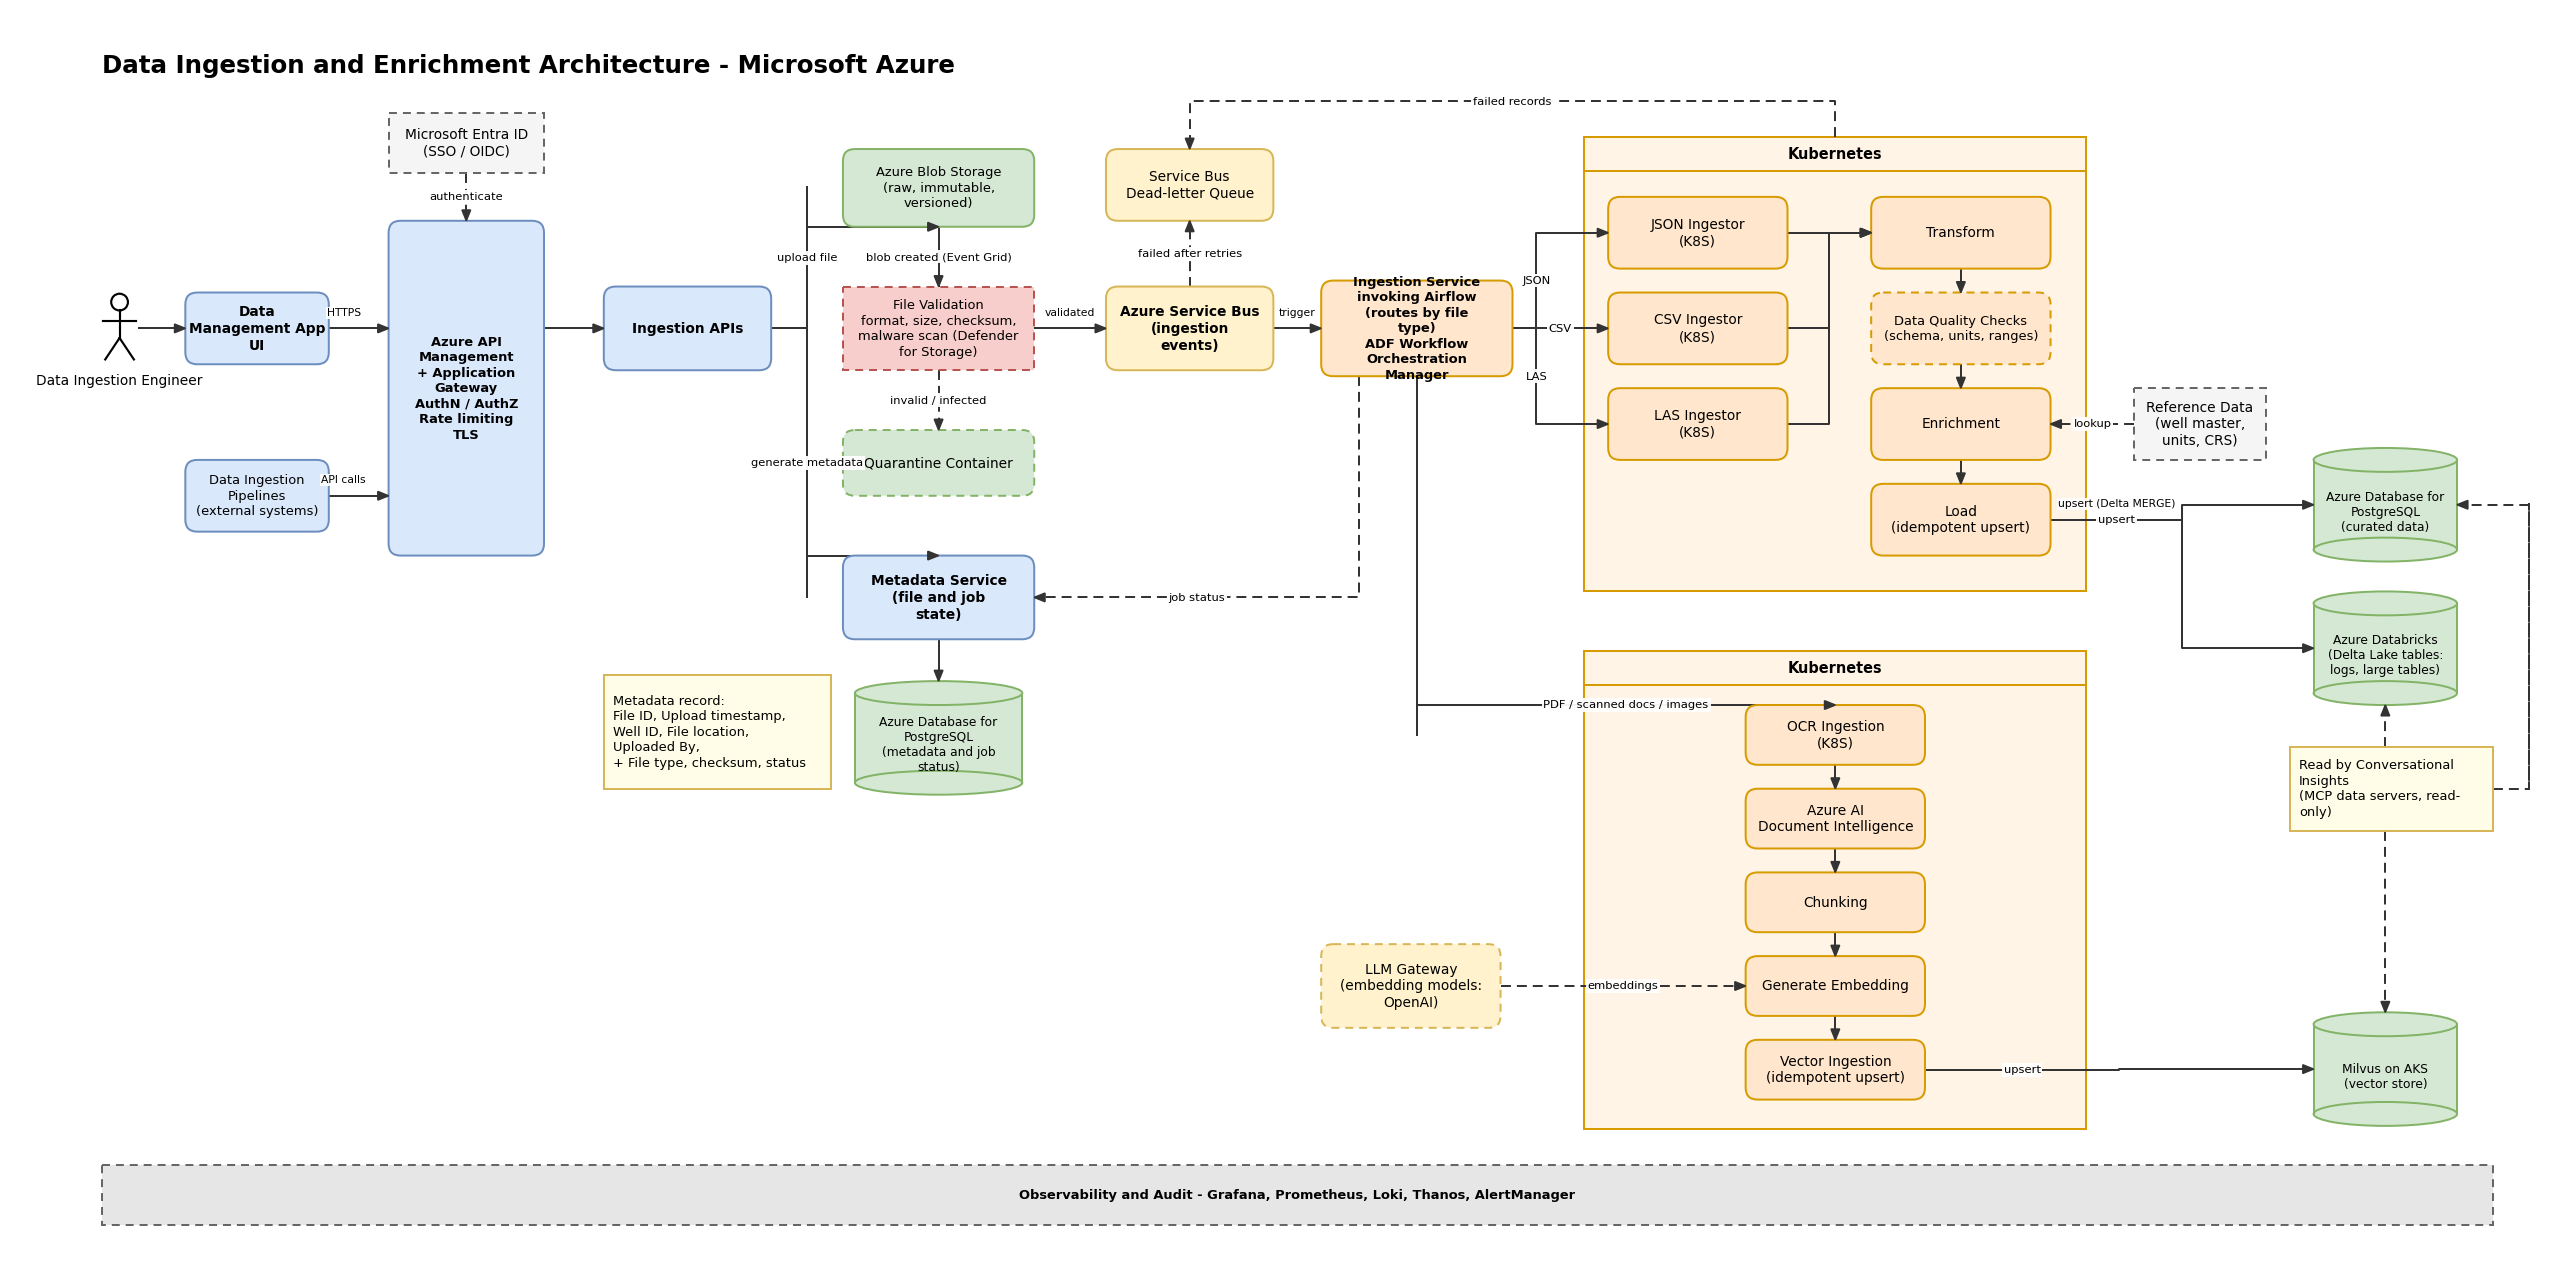
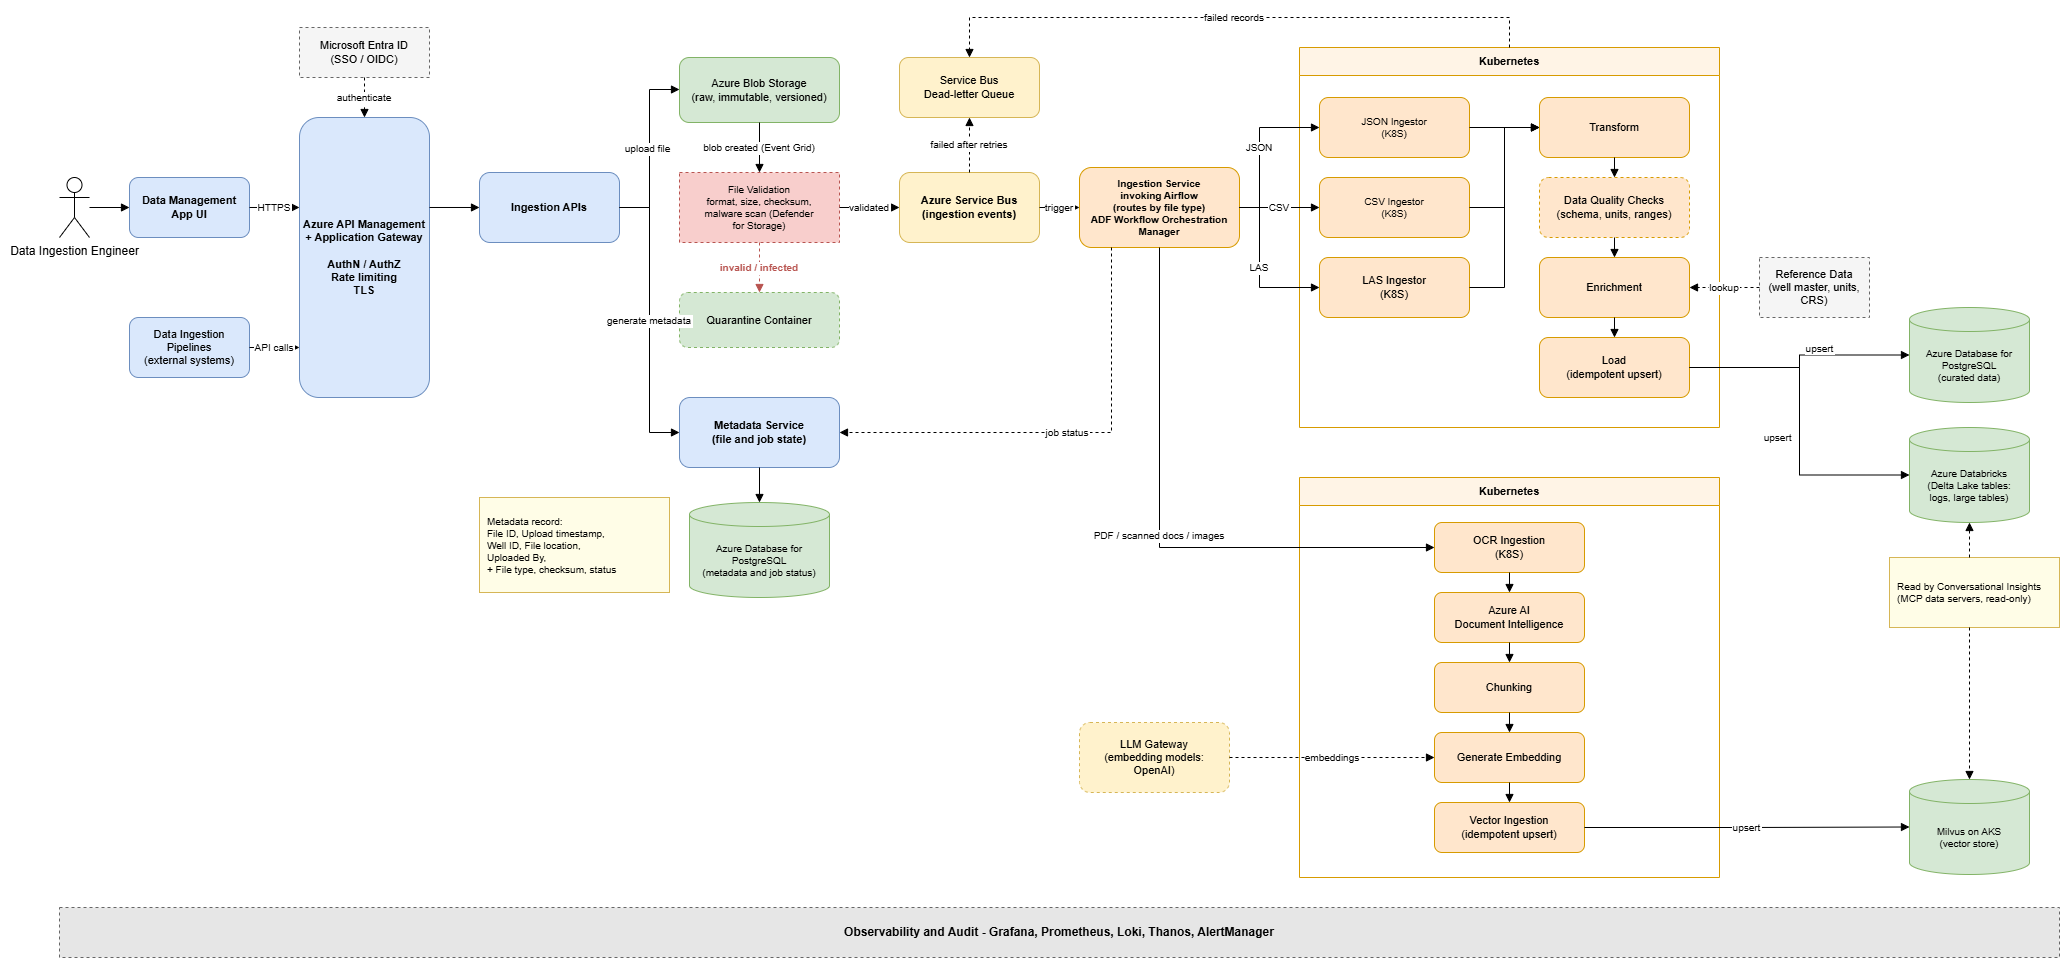
Add deployment architecture diagrams and update documentation

diff --git a/Ingestion_Enrichment_Pipelines/README.md b/Ingestion_Enrichment_Pipelines/README.md
@@ -34,6 +34,48 @@ Key design principles:
 
 *Source: [`Ingestion_Enrichment_Azure_Architecture.drawio`](Ingestion_Enrichment_Azure_Architecture.drawio)*
 
+## Deployment Architecture
+
+![Data Management App and Backend Services - Multi-Cloud Deployment (GCP Primary, Azure Secondary)](Deployment_Architecture.png)
+
+*Source: [`Deployment_Architecture.drawio`](Deployment_Architecture.drawio)*
+
+The Data Management App and the Backend Services are deployed across both clouds. GCP is the primary cloud and carries all normal traffic. Azure is the secondary cloud: it runs with a minimum resource configuration and receives traffic only if GCP is unavailable.
+
+### Overview
+
+- **Application.** The Data Management App is an Angular single-page UI. Users sign in through Microsoft Azure Entra ID (OIDC / SSO). The Backend Services are also exposed as a REST API, so other applications can call them directly.
+- **Multi-cloud with DNS failover.** The primary DNS value points to the GCP global load balancer and the secondary value points to the Azure global load balancer. If the GCP load balancer is not reachable, requests go to Azure.
+- **Two regions in each cloud.** The UI and the backend run in a US region and an EU region on both clouds. A global load balancer routes each request to the correct region using region affinity. In Azure, an Application Gateway in each region receives the traffic. In GCP, an ingress gateway does the same.
+- **Kubernetes.** In every region, the UI and the Backend Services run in a Kubernetes (K8S) cluster. Azure's clusters are kept at minimum resources.
+- **Cloud-agnostic by default.** Kubernetes, Postgres and the observability stack are the same on both clouds. Only eventing and object storage are cloud-native: Pub/Sub and GCS on GCP, Service Bus and Blob Storage on Azure.
+- **Postgres in the US only.** Postgres runs in the US region of each cloud. The EU backends read and write it across regions. A nightly sync copies data from GCP Postgres to Azure Postgres so the secondary stays in step.
+- **Observability.** Prometheus and Loki collect metrics and logs in each cluster. Grafana, Thanos and Alert Manager provide dashboards, a global metrics view and alerting in each cloud.
+
+### Deployment at a glance
+
+| Aspect | GCP (primary) | Azure (secondary) |
+|---|---|---|
+| Role | Active, receives all normal traffic | Standby, receives traffic only if GCP is unavailable |
+| DNS | Primary value | Secondary value |
+| Global load balancing | GCP Global Load Balancer (region affinity) | Azure Global Load Balancer (region affinity) |
+| Regional entry | Ingress Gateway (US, EU) | Application Gateway (US, EU) |
+| Regions | US and EU | US and EU |
+| Compute | Kubernetes cluster per region | Kubernetes cluster per region, minimum resources |
+| Eventing | Pub/Sub | Service Bus |
+| Object storage | GCS | Azure Blob Storage |
+| Postgres | Primary, US region only | Secondary, US region only, refreshed by the nightly sync |
+| Observability | Prometheus, Loki, Grafana, Thanos, Alert Manager | Prometheus, Loki, Grafana, Thanos, Alert Manager |
+
+### Request routing and failover
+
+1. A user opens the Data Management App, or another application calls the REST API. Both use the same DNS name.
+2. DNS resolves to the GCP global load balancer (primary value). The user signs in through Microsoft Azure Entra ID.
+3. The global load balancer sends the request to the US or EU region using region affinity. The regional gateway forwards it to the UI or the Backend Services in that region's Kubernetes cluster.
+4. The Backend Services read and write Postgres in the US region. EU backends make this call across regions.
+5. If the GCP load balancer is not reachable, DNS returns the secondary value and requests go to the Azure global load balancer. They follow the same routing through the Azure regions.
+6. A nightly sync from GCP Postgres to Azure Postgres keeps the Azure data in step with GCP.
+
 ## Patents
 
 The framework and its workflows are covered by the following patents:
